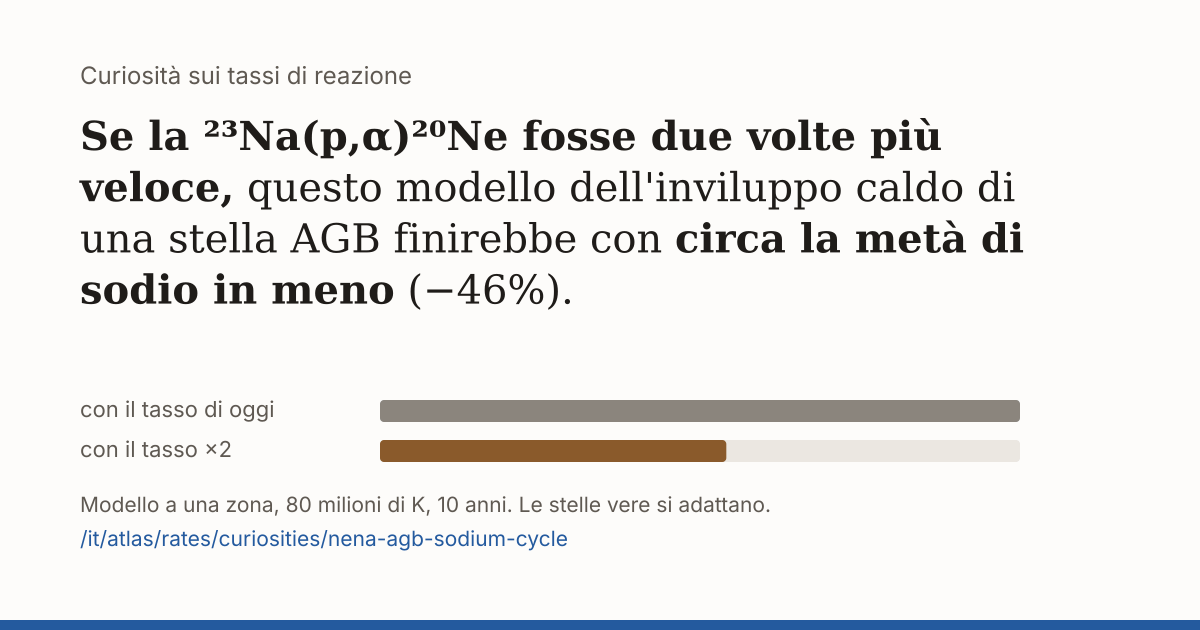
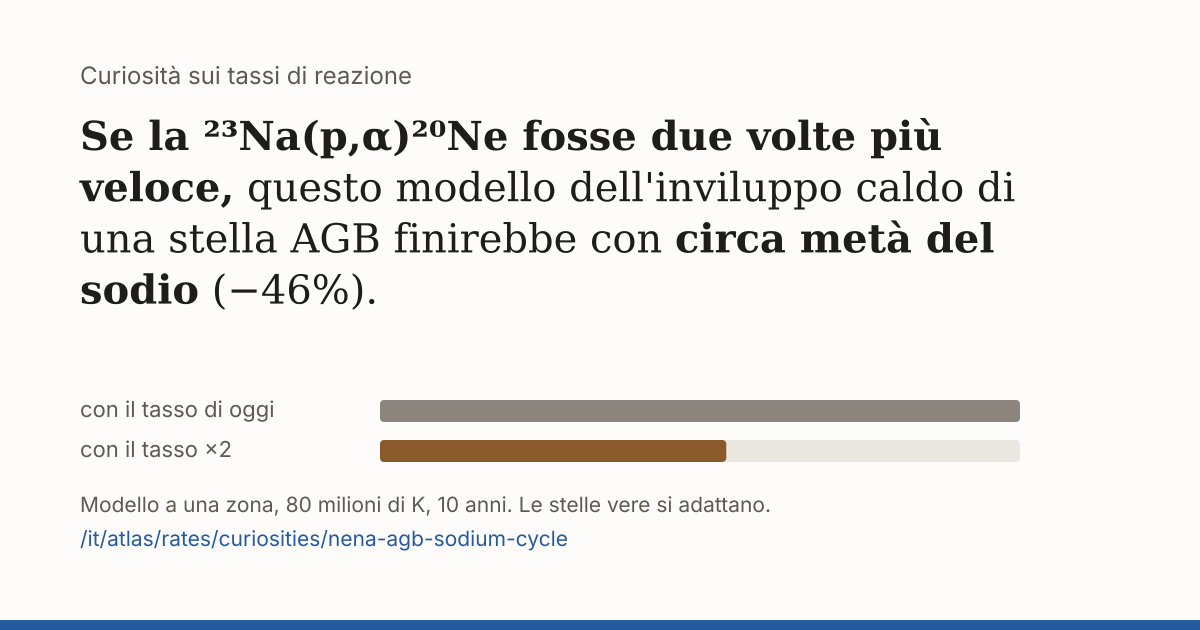
Curiosities: clearer caveats, better Italian, and a way in from the menu, search and home
The aluminium-26 card says what its upper limit is (the model counts the
short-lived form that never glows); the helium-core cards say their sizes are
an upper end; Borexino 'counted'; 'one-zone' is glossed in the lead. Italian:
'circa metà del sodio', 'solo circa un terzo dello stronzio-88'. The social
cards keep the one-line caveat. The page is in the Learn menu, in the search
('curiosities', 'curiosità') and linked from the home rate-explorer card.

Claude-Session: https://claude.ai/code/session_01TkWK4BAGQtHwuzdXYr3xtP

Changed region(s): [[0.1542, 0.4222, 0.4933, 0.4825], [0.6783, 0.3317, 0.8633, 0.4222]]

diff --git a/lib/rates/curiosities.ts b/lib/rates/curiosities.ts
@@ -43,6 +43,8 @@ export interface CuriositySpec {
   where: Words
   /** why it matters, at most 15 words, no numbers of the model */
   hook: Words
+  /** a limit of the model for this one result, after the caveat */
+  note?: Words
 }
 
 /** "this model of …", per scenario, so each is written once. */
@@ -83,7 +85,7 @@ export const CURIOSITIES: CuriositySpec[] = [
     name: nm("beryllium‑7", "berillio‑7"),
     where: W.sun,
     hook: {
-      en: "Beryllium‑7 gives off the Sun's ⁷Be neutrinos, which Borexino counts on Earth.",
+      en: "Beryllium‑7 gives off the Sun's ⁷Be neutrinos, which Borexino counted on Earth.",
       it: "Il berillio‑7 emette i neutrini del ⁷Be del Sole, che Borexino conta sulla Terra.",
     },
   },
@@ -165,8 +167,12 @@ export const CURIOSITIES: CuriositySpec[] = [
     name: nm("aluminium‑26", "alluminio‑26"),
     where: W.hbb,
     hook: {
-      en: "Aluminium‑26's 1.809 MeV glow maps the Milky Way. Here an upper limit.",
-      it: "La luce a 1,809 MeV dell'alluminio‑26 disegna la Via Lattea. Qui è un limite superiore.",
+      en: "Aluminium‑26's 1.809 MeV glow maps the Milky Way.",
+      it: "La luce a 1,809 MeV dell'alluminio‑26 disegna la Via Lattea.",
+    },
+    note: {
+      en: "This model counts all the aluminium‑26 made, including a short-lived form that never glows, so here it is an upper limit.",
+      it: "Il modello conta tutto l'alluminio‑26 prodotto, anche una forma di vita breve che non emette questa luce: qui è quindi un limite superiore.",
     },
   },
   {
@@ -330,6 +336,9 @@ const FRACTIONS: [number, string, string][] = [
 ]
 const nearest = (f: number, max = 1) =>
   FRACTIONS.filter(([v]) => v <= max + 1e-9).reduce((a, b) => (Math.abs(Math.log(b[0] / f)) < Math.abs(Math.log(a[0] / f)) ? b : a))
+/** "del sodio", "dello stronzio‑88", "dell'alluminio‑26" (the element names are masculine). */
+const delIt = (name: string) =>
+  /^[aeiou]/i.test(name) ? `dell'${name}` : /^(s[^aeiou]|z|gn|ps|x)/i.test(name) ? `dello ${name}` : `del ${name}`
 const TIMES: Record<number, [string, string]> = { 2: ["twice", "il doppio"], 3: ["three times", "il triplo"] }
 
 /**
@@ -356,11 +365,11 @@ export function amountWords(r: number, name: string, lang: CLang): string {
   // less
   if (r >= 0.45 && r <= 0.55) {
     const exact = Math.abs(r - 0.5) <= 0.025
-    return it ? `${about(exact)}la metà di ${name} in meno` : `${about(exact)}half as much ${name}`
+    return it ? `${about(exact)}metà ${delIt(name)}` : `${about(exact)}half as much ${name}`
   }
   if (r < 0.45) {
     const [, en, itw] = nearest(r, 2 / 5)
-    return it ? `circa ${itw} di ${name}` : `about ${en} as much ${name}`
+    return it ? `solo circa ${itw} ${delIt(name)}` : `about ${en} as much ${name}`
   }
   const [, en, itw] = nearest(1 - r, 2 / 5)
   return it ? `circa ${itw} di ${name} in meno` : `about ${en} less ${name}`
@@ -411,14 +420,24 @@ export function temperatureWords(T9: number, lang: CLang): string {
   return lang === "it" ? `${group(mk, lang)} milioni di K` : `${group(mk, lang)} million K`
 }
 
+/** A site's own limit, on every card of that site (from its note in scenarios.yaml). */
+const SITE_NOTES: Record<string, Words> = {
+  "massive-he-core": {
+    en: "For this site the sizes are an upper end: read the direction.",
+    it: "Per questo sito l'entità delle variazioni è un limite superiore: conta soprattutto la direzione.",
+  },
+}
+
 export interface CuriosityText {
   /** the sentence in pieces, the bold ones marked */
   parts: { text: string; bold?: boolean }[]
   /** the same, plain: alt text, citation, screen readers */
   sentence: string
   hook: string
-  /** "One-zone model at 16 million K, 1 billion years. Real stars adjust." */
+  /** "One-zone model at 16 million K, 1 billion years. Real stars adjust.", then the site's and the card's own limits */
   caveat: string
+  /** the caveat without those limits (one line on the social card) */
+  shortCaveat: string
   amount: string
   percent: string
 }
@@ -439,10 +458,12 @@ export function curiosityText(
   const parts = [{ text: lead, bold: true }, { text: mid }, { text: amount, bold: true }, { text: ` (${percent}).` }]
   const T = temperatureWords(ctx.T9, lang)
   const d = durationWords(ctx.tFinal, lang)
-  const caveat = it
+  const extra = [SITE_NOTES[spec.site]?.[lang], spec.note?.[lang]].filter(Boolean).map((x) => ` ${x}`).join("")
+  const shortCaveat = it
     ? `Modello a una zona${ctx.cooling ? ` che si raffredda da ${T}` : `, ${T}`}, ${d}. Le stelle vere si adattano.`
     : `One-zone model ${ctx.cooling ? `cooling from ${T}` : `at ${T}`}, ${d}. Real stars adjust.`
-  return { parts, sentence: parts.map((p) => p.text).join(""), hook: spec.hook[lang], caveat, amount, percent }
+  const caveat = shortCaveat + extra
+  return { parts, sentence: parts.map((p) => p.text).join(""), hook: spec.hook[lang], caveat, shortCaveat, amount, percent }
 }
 
 /** The explorer's address that applies the change: `{ path, hash }`. */

diff --git a/lib/rates/i18n.ts b/lib/rates/i18n.ts
@@ -291,7 +291,7 @@ const en = {
     model: "Model",
     indexTitle: "Rate curiosities",
     indexLead:
-      "What a reaction twice as fast would change, in sixteen sentences. Each one comes from a one-zone burn of the rates explorer, says what it leaves out, and opens the exact calculation with “Try it”.",
+      "What a reaction twice as fast would change, in sixteen sentences. Each one comes from a one-zone burn of the rates explorer (a simplified model: one parcel of gas at a set temperature and density, with no mixing), says what it leaves out, and opens the exact calculation with “Try it”.",
     indexHow:
       "The numbers are read from the explorer's precomputed tables (every rate ×2 at each site's own conditions) and checked against a fresh run of the same solver. They are rounded to two significant figures. ×2 is a what-if: how well each rate is really known is given beside it, from the reaction atlas.",
     back: "Reaction rates",
@@ -630,7 +630,7 @@ const it: RatesDict = {
     model: "Modello",
     indexTitle: "Curiosità sui tassi",
     indexLead:
-      "Che cosa cambierebbe una reazione due volte più veloce, in sedici frasi. Ognuna viene da una combustione a una zona dell'esploratore dei tassi, dice che cosa lascia fuori e con «Provalo» apre esattamente quel calcolo.",
+      "Che cosa cambierebbe una reazione due volte più veloce, in sedici frasi. Ognuna viene da una combustione a una zona dell'esploratore dei tassi (un modello semplificato: una sola porzione di gas a temperatura e densità date, senza rimescolamento), dice che cosa lascia fuori e con «Provalo» apre esattamente quel calcolo.",
     indexHow:
       "I numeri sono letti dalle tabelle precalcolate dell'esploratore (ogni tasso ×2 alle condizioni di ciascun ambiente) e verificati con un nuovo calcolo dello stesso risolutore. Sono arrotondati a due cifre significative. ×2 è un'ipotesi: accanto è indicato quanto è noto davvero ogni tasso, dall'atlante delle reazioni.",
     back: "Tassi di reazione",

diff --git a/lib/i18n.ts b/lib/i18n.ts
@@ -80,6 +80,9 @@ const en = {
     // --- r11 site ---
     about: "About this site",
     aboutDescription: "How it was made and checked, its data, how to cite it",
+    // --- r13 final ---
+    curiosities: "Rate curiosities",
+    curiositiesDescription: "What a reaction twice as fast would change, in sixteen sentences",
   },
   footer: {
     work: "Work",
@@ -250,6 +253,8 @@ const en = {
     resourceRatesText:
       "The pp chains, CNO, NeNa, MgAl and the s-process. Find the slowest step at a stellar site, change a rate and watch the abundances respond, computed in your browser from JINA REACLIB.",
     resourceRatesSources: "Sources",
+    // --- r13 final ---
+    resourceRatesCuriosities: (n: number) => `${n} curiosities`,
     resourceRatesLink: "See where a rate ends up: the rate explorer",
     // --- r7 site ---
     resourceEvaluationsSplit: (n: number, published: number) =>
@@ -706,6 +711,9 @@ const it: Dictionary = {
     // --- r11 site ---
     about: "Informazioni sul sito",
     aboutDescription: "Come è stato fatto e verificato, i dati, come citarlo",
+    // --- r13 final ---
+    curiosities: "Curiosità sui tassi",
+    curiositiesDescription: "Che cosa cambierebbe una reazione due volte più veloce, in sedici frasi",
   },
   footer: {
     work: "Lavoro",
@@ -870,6 +878,8 @@ const it: Dictionary = {
     resourceRatesText:
       "Le catene pp, i cicli CNO, NeNa e MgAl e il processo s. Trova il passo più lento in un ambiente stellare, cambia un tasso e guarda come rispondono le abbondanze, calcolate nel tuo browser da JINA REACLIB.",
     resourceRatesSources: "Fonti",
+    // --- r13 final ---
+    resourceRatesCuriosities: (n: number) => `${n} curiosità`,
     resourceRatesLink: "Dove va a finire un tasso: l'esploratore dei tassi",
     // --- r7 site ---
     resourceEvaluationsSplit: (n: number, published: number) =>

diff --git a/components/site-header.tsx b/components/site-header.tsx
@@ -174,6 +174,7 @@ export function SiteHeader({
     item("/atlas/timeline", t.timeline, d.timeline),
     item("/atlas/s-process", t.sProcess, d.sProcess),
     item("/atlas/rates", t.rates, t.ratesDescription),
+    item("/atlas/rates/curiosities", t.curiosities, t.curiositiesDescription),
     item("/about", t.about, t.aboutDescription),
   ]
   const bar: Item[] = [research, atlas, evaluations, publications, software, cv]
@@ -187,8 +188,10 @@ export function SiteHeader({
   const isActive = (href: string) => {
     const on = pathname === href || pathname.startsWith(`${href}/`)
     if (!on) return false
-    if (href === atlas.href) return !learn.some((l) => pathname === l.href || pathname.startsWith(`${l.href}/`))
-    return true
+    const under = (l: Item) => pathname === l.href || pathname.startsWith(`${l.href}/`)
+    if (href === atlas.href) return !learn.some(under)
+    // The most specific item only: the curiosities, not also "Reaction rates".
+    return !learn.some((l) => l.href.length > href.length && l.href.startsWith(`${href}/`) && under(l))
   }
   const learnActive = learn.some((l) => isActive(l.href))
 

diff --git a/components/pages/home.tsx b/components/pages/home.tsx
@@ -18,6 +18,7 @@ import {
 import { Sci } from "@/components/sci"
 import { dict, localePath, type Lang } from "@/lib/i18n"
 import { LUNA_RATES_PUBLIC } from "@/lib/rates/features"
+import { CURIOSITIES } from "@/lib/rates/curiosities"
 
 /**
  * A paragraph with `[text](/path)` links, the only markup the profile's lead
@@ -141,6 +142,7 @@ function resources(lang: Lang): Resource[] {
         ...(meta.licence ? [{ text: t.licence(meta.licence) }] : []),
         { text: "JINA REACLIB · pynucastro" },
         { text: t.resourceRatesSources, href: "/atlas/rates#credits" },
+        { text: t.resourceRatesCuriosities(CURIOSITIES.length), href: "/atlas/rates/curiosities" },
       ],
     },
     {
